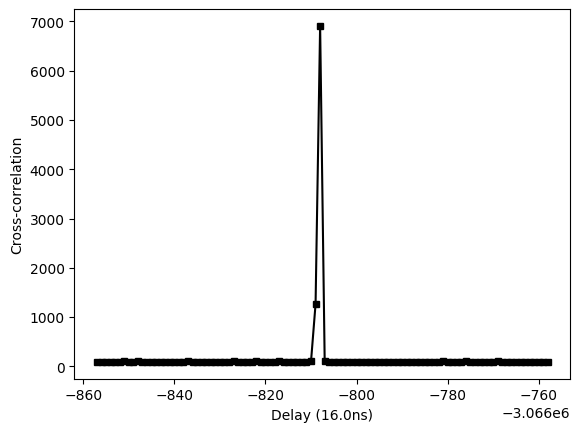
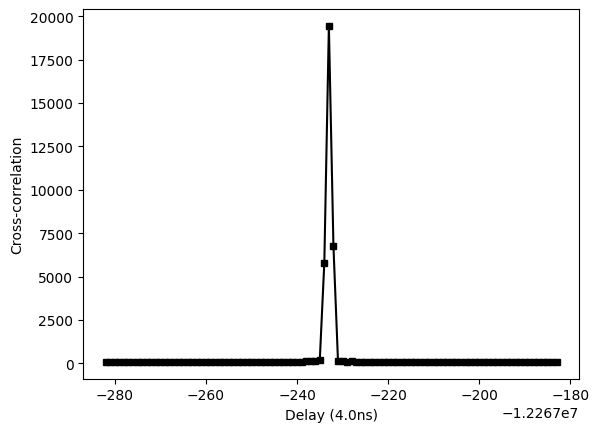
make windowSize an input argument

diff --git a/src/correction.py b/src/correction.py
@@ -18,36 +18,36 @@ def ansatz(sat, loc, startTime, timeStamp, units, deg):
 
 def unshift(timeStamp, coeffsArray):
 	unshifted = timeStamp.copy()
-	coeffsArray = np.flip(coeffsArray)
+	coeffsArrayFlipped = np.flip(coeffsArray)
 
 	for i in range(len(unshifted)):
 		t = timeStamp[i]
 		shift = 0
-		for j in range(len(coeffsArray) - 1, -1, -1):
-			shift = shift + coeffsArray[j]*(t**j)
+		for j in range(len(coeffsArrayFlipped) - 1, -1, -1):
+			shift = shift + coeffsArrayFlipped[j]*(t**j)
 		unshifted[i] = t - shift
 	return unshifted
 
 
 def paramSearch(
-	ratesArray, epsilon,
+	ratesArray,
+	epsilon,
 	coeffsArray, 
 	timeStampAlice, 
 	timeStampBob,
 	coarseTau,
+	timebinSize,
 	mode):
 
 	print("============= starting param search ============")
 
 	coeffsArray[len(coeffsArray) - 1] = 0 # disregard constant offset
+	print('coeffsArray', coeffsArray)
 
 	unshiftedTimeStampBob1 = unshift(
 		timeStampBob, coeffsArray
 	)
 	print('unshiftedTimeStampBob1', unshiftedTimeStampBob1)
-	plt.figure()
-	plt.plot(unshiftedTimeStampBob1)
-	plt.show()
 
 	print("=========== coarse FFT =============")
 	# coarse cross-correlation
@@ -61,13 +61,14 @@ def paramSearch(
 	coarseDelay = int( coarseShift * coarseTau )
 	print('coarseDelay', coarseDelay)
 
-	print("=========== fine FFT 1 ================")
 	window = 10000
 	startIdx = coarseDelay - window
 	endIdx = coarseDelay + window
-	binNum = window / 8 # 16.0ns
+	binNum = window / (timebinSize / 2) 
 	fineTau = (endIdx - startIdx)/binNum #fine bin size
 	bins = np.linspace(startIdx, endIdx, binNum)
+
+	print("=========== fine FFT 1 ===========")
 
 	print('startIdx, endIdx', startIdx, endIdx)
 	print('bin size (ns)', fineTau )
@@ -76,7 +77,7 @@ def paramSearch(
 
 	gain1 = spread(ccFine1)
 
-	print("=========== fine FFT 2 ================")
+	print("=========== fine FFT 2 ===========")
 
 	coeffsArray_ = coeffsArray.copy()
 
@@ -91,6 +92,24 @@ def paramSearch(
 
 	gain2 = spread(ccFine2)
 
+	if (gain1 > gain2):
+		print("=========== fine FFT 2 ===========")
+
+		coeffsArray_ = coeffsArray.copy()
+
+		for i in range(len(coeffsArray_)):
+			coeffsArray_[i] = coeffsArray[i] - 0.0001 * coeffsArray[i]
+
+		unshiftedTimeStampBob2 = unshift(
+			timeStampBob, coeffsArray_
+		)
+
+		ccFine2, fineShift = xcorrProcessor.xcorrFine(timeStampAlice, unshiftedTimeStampBob2, bins)
+
+		gain2 = spread(ccFine2)
+
+	print ("========= start iterations =========")
+
 	print('gain 1', gain1)
 	print('gain 2', gain2)
 
@@ -102,14 +121,17 @@ def paramSearch(
 		print('================ iteration: ', iteration, '===============')
 
 		diff = gain2 - gain1
-		gradients = [None] * (len(coeffsArray) - 1)
+		gradients = [0] * (len(coeffsArray) - 1)
 
 		for i in range(len(gradients)):
-			gradients[i] = diff / (coeffsArray_[i] - coeffsArray[i])
+			if ((coeffsArray_[i] - coeffsArray[i]) == 0):
+				gradients[i] = 0
+			else:
+				gradients[i] = diff / (coeffsArray_[i] - coeffsArray[i])
 
 		coeffsArray = coeffsArray_.copy()
 
-		for i in range(len(coeffsArray_)):
+		for i in range(len(coeffsArray_) - 1):
 			coeffsArray_[i] = coeffsArray_[i] + ratesArray[i]*gradients[i]
 
 		print('change in coeffs', coeffsArray_ - coeffsArray)
@@ -121,34 +143,21 @@ def paramSearch(
 		gain1 = gain2
 		ccFine, fineShift = xcorrProcessor.xcorrFine(timeStampAlice, unshiftedTimeStampBob, bins)
 
-		gain2 = spread(ccFine)
-		
-		inner = 0
-		# while (gain2 < gain1):
-		# 	print('gain2 - gain1', gain2 - gain1)
-		# 	inner +=1 
-		# 	print('--------------iteration', iteration, 'inner', inner, '-------------')
-		# 	_a = a + rateA*da
-		# 	_b = b + rateB*db/(2*inner)
+		gain2 = spread(ccFine)		
 
-		# 	unshiftedTimeStampBob = unshift(
-		# 		timeStampBob, [_a, _b, c]
-		# 	)
+		xcorrProcessor.plotXcorr(ccFine, fineTau, coarseDelay / fineTau, mode+str(iteration))
 
-		# 	ccFine, fineShift = xcorrProcessor.xcorrFine(timeStampAlice, unshiftedTimeStampBob, bins)
-
-		# 	gain2 = spread(ccFine)
-		
-
-		# xcorrProcessor.plotXcorr(ccFine, fineTau, coarseDelay / fineTau, mode+str(iteration))
-
-		# print('gain 1', gain1)
-		# print('gain 2', gain2)
+		print('gain 1', gain1)
+		print('gain 2', gain2)
 
 	return coeffsArray
+
+def hyperparamSearch():
+	return rate
 
 def spread(xcorr):
 	maxIdx = np.argmax(xcorr)
 	spread = 2*xcorr[maxIdx] - xcorr[maxIdx - 1] - xcorr[maxIdx + 1]
+	# spread = max(xcorr[maxIdx] - xcorr[maxIdx - 1],xcorr[maxIdx] - xcorr[maxIdx + 1])
 
 	return spread / max(xcorr)

diff --git a/src/testCorrection.py b/src/testCorrection.py
@@ -10,14 +10,23 @@ filenameAlice = sys.argv[1]
 filenameBob = sys.argv[2]
 filenameTLE = sys.argv[3]
 filenameSavedPass = sys.argv[4]
-mode = sys.argv[5] # unshiftedGuess, propagationDelayGuess, clockDriftShiftGuess, or aliceBobGuess
+timebinSize = int(sys.argv[5])
+mode = sys.argv[6] # unshiftedGuess, propagationDelayGuess, clockDriftShiftGuess, or aliceBobGuess
 
-deg = 2
-rateA = 5e-50 * 10
-rateB = 5e-42 * 10
-rateC = 5e-20 * 10
-rates = [ rateB, rateC]
-epsilon = 0.000001
+deg = 3
+# rateC = 5e-10 * 10
+# rateB = rateC**2
+# rateA = rateC**3
+# ratesArray = [rateA, rateB, rateC]
+
+rateA = 5e-100 * 0.01
+rateB = 5e-82 * 0.1
+rateC = 5e-42 * 0.8
+rateD = 5e-20 * 0.8
+# ratesArray = [rateA, rateB, rateC, rateD]
+ratesArray = [rateB, rateC, rateD]
+# ratesArray = [rateC, rateD]
+epsilon = 0.00000001
 units = 1e-9
 coarseTau = 10000
 sat, loc, startTime = stampProcessor.parseSatellite(filenameTLE, filenameSavedPass)
@@ -31,9 +40,10 @@ timeStampBobAnsatz, coeffsAnsatz = correction.ansatz(
 )
 
 coeffs = correction.paramSearch(
-	rates, epsilon,
+	ratesArray,
+	epsilon,
 	coeffsAnsatz,
-	timeStampAlice, timeStampBob, coarseTau, mode
+	timeStampAlice, timeStampBob, coarseTau, timebinSize, mode
 )
 
 print(coeffs)

diff --git a/src/xcorrProcessor.py b/src/xcorrProcessor.py
@@ -10,7 +10,7 @@ import pycorrelate as pyc
 
 import pyximport; pyximport.install()
 
-def xcorr(timeStampAlice, timeStampBob, coarseTau, mode):
+def xcorr(timeStampAlice, timeStampBob, coarseTau, timebinSize, mode):
 	print("=====================FFT=====================")
 	# the coarse xcorr gives an estimate of the delay to
 
@@ -33,7 +33,9 @@ def xcorr(timeStampAlice, timeStampBob, coarseTau, mode):
 	window = 10000
 	startIdx = coarseDelay - window
 	endIdx = coarseDelay + window
-	binNum = window / 4 # 8.0ns
+	binNum = window / (timebinSize / 2) 
+	# binNum = window / 4 # 8.0ns
+	# binNum = window / 8 # 16.0ns
 	fineTau = (endIdx - startIdx)/binNum #fine bin size
 	bins = np.linspace(startIdx, endIdx, binNum)
 

diff --git a/src/dopplerShiftAnsatz.py b/src/dopplerShiftAnsatz.py
@@ -46,13 +46,13 @@ def unshiftPropagationDelay(timeStamp, nt_list, delay_list, deg):
 	coeffs = np.polyfit(nt_list, delay_list, deg)
 	print('propagationDelay coeffs', coeffs)
 	unshiftedTimeStamp = timeStamp.copy()
-	coeffs = np.flip(coeffs)
+	coeffsFlipped = np.flip(coeffs)
 
 	for i in range(len(timeStamp)):
 		t = unshiftedTimeStamp[i]
 		shift = 0
-		for j in range(len(coeffs) - 1, -1, -1):
-			shift = shift + coeffs[j]*(t**j)
+		for j in range(len(coeffsFlipped) - 1, -1, -1):
+			shift = shift + coeffsFlipped[j]*(t**j)
 		unshiftedTimeStamp[i] =  t - shift
 
 	return unshiftedTimeStamp, coeffs

diff --git a/src/main.py b/src/main.py
@@ -11,7 +11,8 @@ filenameAlice = sys.argv[1]
 filenameBob = sys.argv[2]
 filenameTLE = sys.argv[3]
 filenameSavedPass = sys.argv[4]
-mode = sys.argv[5] # unshifted, propagationDelay, clockDriftShift, or aliceBob
+timebinSize = int(sys.argv[5]) # in ns
+mode = sys.argv[6] # unshifted, propagationDelay, clockDriftShift, or aliceBob
 
 coarseTau = 10000 #coarse timebin size (in ns)
 units = 1e-9
@@ -32,5 +33,6 @@ ccFine = xcorrProcessor.xcorr(
 	timeStampAlice,
 	timeStampBob,
 	coarseTau,
+	timebinSize,
 	mode
 )
